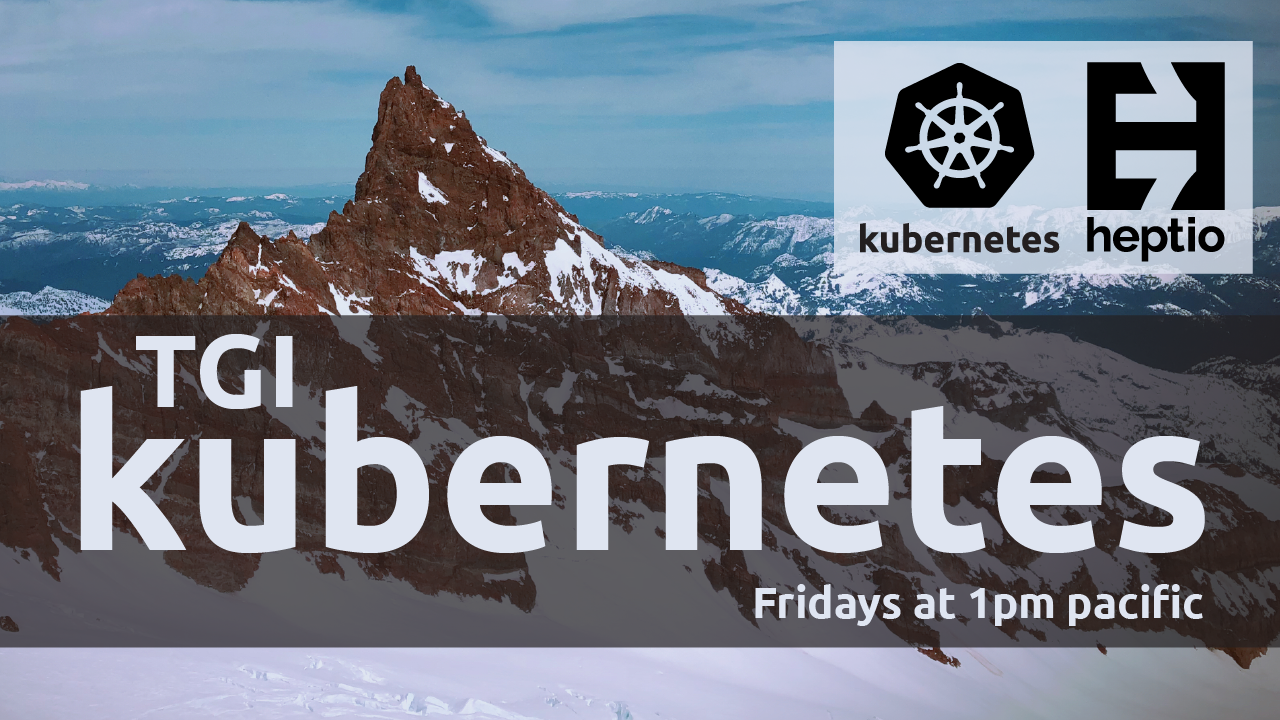
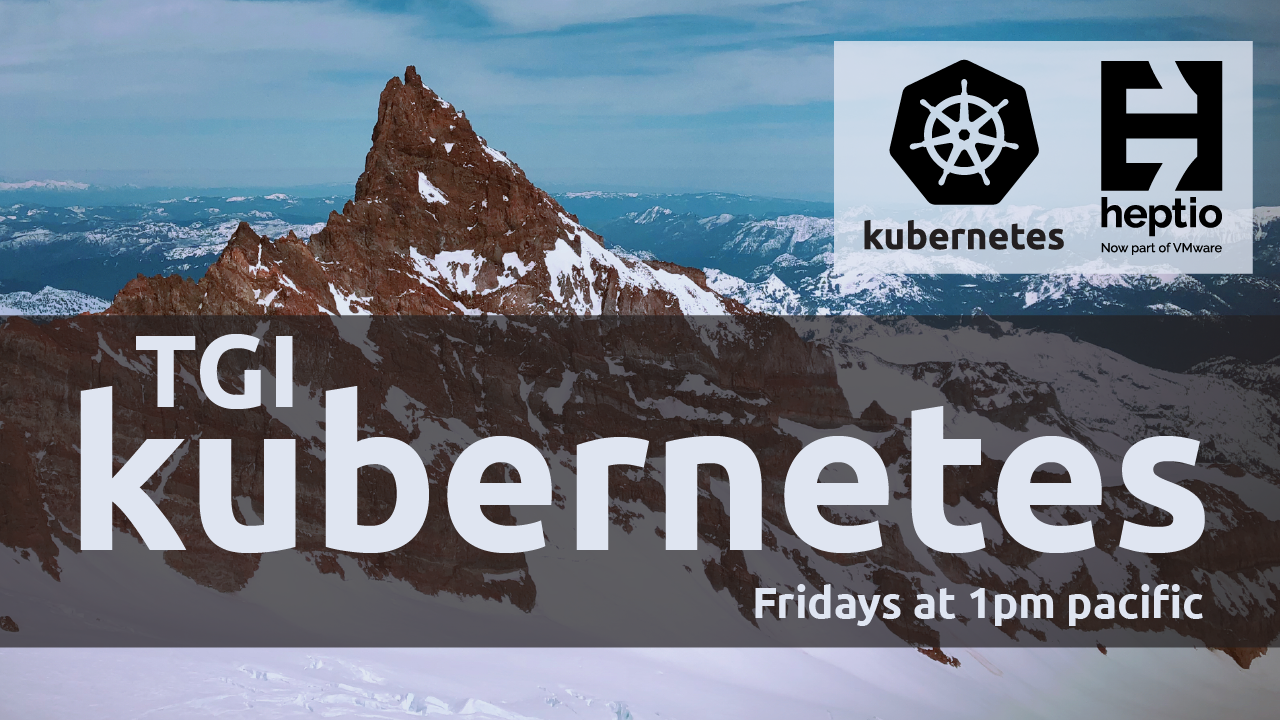
Update image and instructions

Changed region(s): [[0.6562, 0.0611, 0.9688, 0.3667]]

diff --git a/documentation/README.md b/documentation/README.md
@@ -1,32 +1,54 @@
-# TGIK Documentation 
+# TGIK Documentation
 
-This will mostly be internal, but sharing broadly as a resource. 
+This will mostly be internal, but sharing broadly as a resource.
 
+## Checklists
 
-# Scheduling a new episode
+Start by copying the following into the issue for the episode.  Check things off as you do them.
 
-### Creating the graphic 
+```markdown
+The process for producing an episode is [here](https://github.com/heptio/tgik/blob/master/documentation/README.md).  All the detail for the steps below is there.
 
-In the internal team Marketing drive find the TGIK directory.
-Duplicate the most recent .ai file and rename to the next number. 
+Monday or Tuesday:
+* [ ] Pick a topic and create/use an issue in the repo
+* [ ] Create the graphic.
+* [ ] Schedule on Youtube.
+* [ ] Add scheduled episode to TGIK playlist on YT
+* [ ] Create short link in rebrandly
+* [ ] Tweet about it from both personal and company accounts
+* [ ] Schedule future tweets
+* [ ] Post tweets on internal #tgik slack channel so that others know.
 
-*Example:*
+Before episode:
+* [ ] Create HackMD page for live notes.  Start with README template. (TODO: @castrojo -- put details here?)
+* [ ] Get everything tested well before episode so you can debug.
+* [ ] Use internal slack channel to ensure that AV setup is good
 
+After show (ideally right away but can wait until Monday):
+* Create/submit PR for this repo
+  * [ ] Episode directory and README from hackmd
+  * [ ] Any other files from the episode that might be useful
+  * [ ] Update playlist.md with episode
+  * Feel free to self merge
+* [ ] Edit YT description to point to episode directory here
 ```
-Duplicate tgik042.ai
-Rename to tgik043.ai
-```
 
-Find an image to use that is fun, and subtly hints at the topic for the episode. 
+## Scheduling a new episode
+
+### Creating the graphic
+
+Find an image to use that is fun, and subtly hints at the topic for the episode.
 For example [episode 38](https://github.com/heptio/tgik/tree/master/episodes/038) was on Kata containers, and the [supporting image was of containers in a shipyard](https://github.com/heptio/tgik/blob/master/episodes/038/038.png).
-Use the eyedropper tool while holding shift in Adobe Illustrator to change the accent color to a contrasting color from the image.
-Save as a .png
 
-*Example:*
-
-```
-tgik043.ai ---> 043.png
-```
+General process:
+* Copy a previous episode into a new file and renumber it
+* Pick out an image (often we use unsplash.com). Make sure we have rights to use the image.
+* Open the file in Adobe Illustrator
+* Delete the old image and use the "File | Place" to insert the new image. Move that to the back with "Object | Arrange | Send to Back"
+* Select the semi-transparent background on the text and the logo box and use the eye dropper tool to pick a light color out of the image.
+* Export to PNG in the same folder using "File | Export | Export for screens"
+  * Before saving make sure you change the name of the artboard (which determines the filename) by double clicking it on that dialog.
+  * Export as PNG at 1x
 
 ### Scheduling on YouTube
 

diff --git a/README.md b/README.md
@@ -3,7 +3,9 @@
 
 Official repository for Heptio TGIK!
 
-Heptio TGIK is a weekly live video stream that we broadcast live from the Heptio headquarters in Seattle, Washington all about Kubernetes.
+(Heptio is now part of VMware. We'll figure out branding for TGIK over the coming months. But rest assured that we'll keep creating episodes!)
+
+Heptio TGIK is a weekly live video stream that we broadcast live from the Heptio headquarters (usually) in Seattle, Washington all about Kubernetes.
 
 The [index](playlist.md) contains a list of all episodes.
 
@@ -16,4 +18,3 @@ There is a community driven list of episodes that can be found [here](https://gi
 If you have an idea for TGIK please [open an issue in the TGIK issue tracker](https://github.com/heptio/tgik/issues/new).
 We pick the episodes as we see fit with what's happening in the community.
 If we select your suggestion we will link back to your original work here!
-
